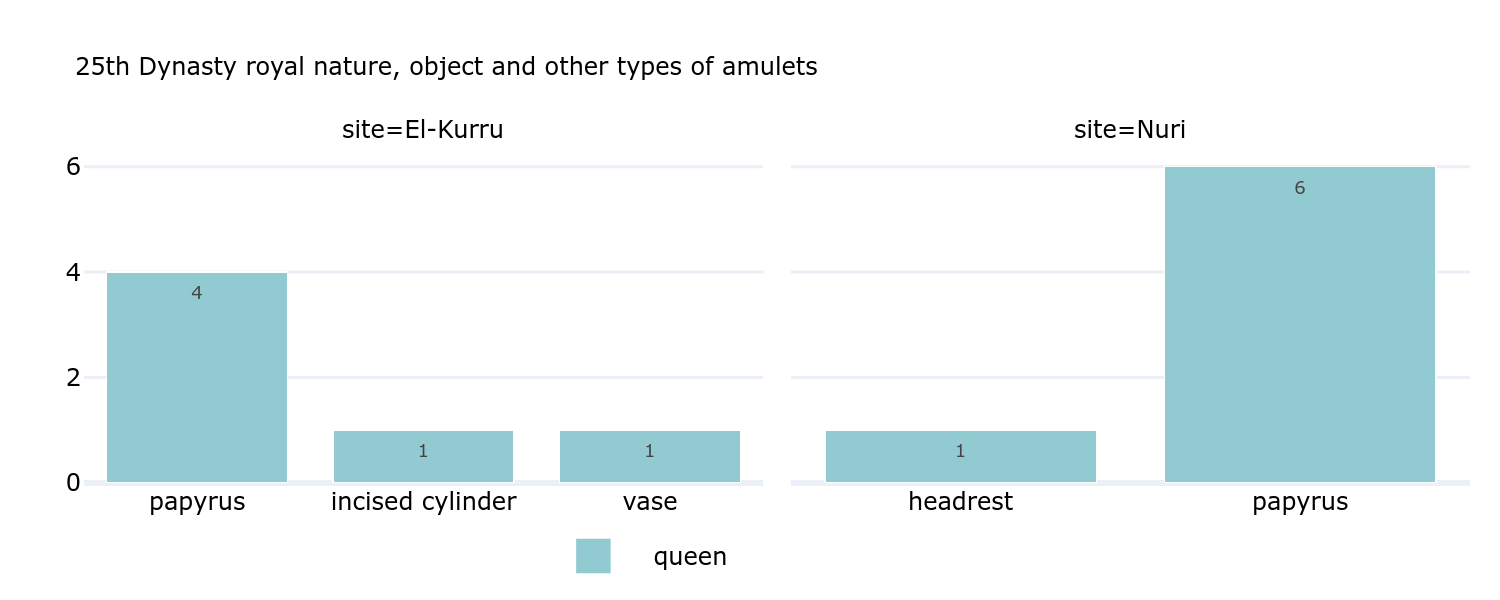
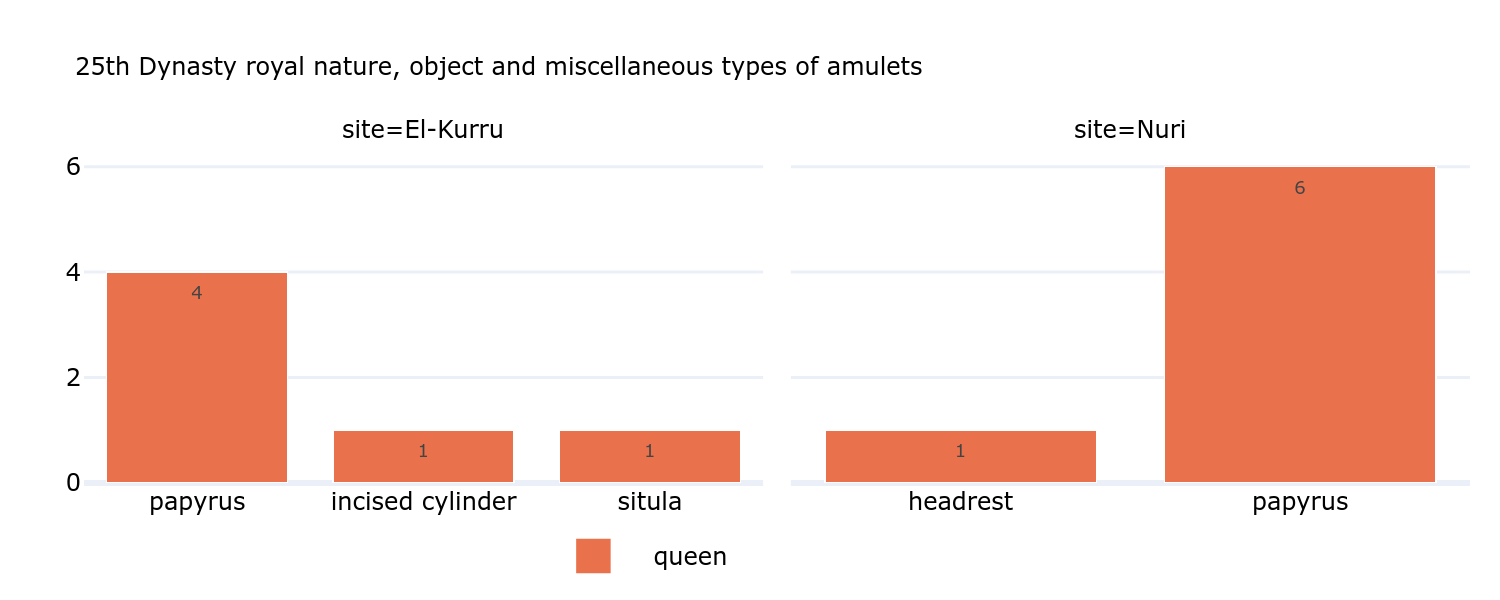
chapter 3, 4, 5 revisions

diff --git a/chapters/5-chapter5.tex b/chapters/5-chapter5.tex
@@ -62,7 +62,7 @@ Architectural features reveal further similarities between elite and royal buria
 	\label{fig:elite-objs}
 \end{figure}
 
-Overall, object types at elite tombs are rather similar to royal assemblages, with beads, vessels and adornments as the most common categories across all phases (Figure \ref{fig:elite-objs}). However, one difference is that shabtis were much rarer in elite contexts. Most of them were found in Mernua's tomb (Early Napatan), reinforcing her connection with the royal sphere. The others were mostly fragments coming from both Early and Middle Napatan tombs. One, from tomb S 82, included an inscription with a name similar to king's Malaqen, but with a different spelling and a female determinative. On the other hand, the fragments from tomb S 84 belonged to three different people. Other shabtis were found in different tombs, including non-elite tombs and the elite burials S 42 and S 49. For that reason, Dunham points out that the shabtis were so scattered by the looting that it was not possible to determine their tomb of origin \parencites[p.~406-409, 4015-416]{dunhamWestSouthCemeteries1963}. Consequently, it seems that Mernua's intact burial was the only one which contained a complete set of 88 shabtis. Her tomb also yielded all of the heart scarabs and canopics.
+Overall, object types at elite tombs are rather similar to royal assemblages, with beads, vessels and adornments as the most common categories across all phases (Figure \ref{fig:elite-objs}). However, one difference is that shabtis were much rarer in elite contexts. Most of them were found in Mernua's tomb (Early Napatan), reinforcing her connection with the royal sphere. The others were mostly fragments coming from both Early and Middle Napatan tombs. One, from tomb S 82, included an inscription with a name similar to king's Malaqen, but with a different spelling and a female determinative. On the other hand, the fragments from tomb S 84 belonged to three different people. Other shabtis were found in different tombs, including non-elite tombs and the elite burials S 42 and S 49. For that reason, Dunham points out that the shabtis were so scattered by the looting that it was not possible to determine their tomb of origin \parencites[p.~406-409, 4015-416]{dunhamWestSouthCemeteries1963}. Consequently, it seems that Mernua's intact burial was the only one which contained a complete set of 88 shabtis. It would seem that the presence of shabtis is a sign of connection with the royal sphere. Additionally, Mernua's tomb also yielded all of the heart scarabs and canopics.
 
 
 Games and toys are more present in elite contexts than royal ones, where they were only found in El-Kurru during the 25th Dynasty, although this could be due to preservation issues if these objects were made of perishable materials. In contrast, at Meroe South, they were found in burials from the 25th Dynasty to Middle Napatan, with the highest concentration in tomb S 86 that is dated to either the 25th Dynasty or Early Napatan phases. Similarly, staffs---previously only found in Nuri royal tombs from the 25th Dynasty to the Late Napatan period---, are only found in Late Napatan elite burials at Meroe South.
@@ -118,12 +118,14 @@ The highest percentage of tombs with amulets was from the Late Napatan phase (17
 
 \subsubsection{Amulet types}
 
+
 \begin{figure}[H]
 	\centering
 	\includegraphics[width=1\textwidth]{elite-types}
 	\caption{Distribution of amulet types in elite tombs by chronological phase.}
 	\label{fig:elite-types}
 \end{figure}
+
 
 Continuing the trend of similarities with royal contexts, amulets of symbols are the most common category in elite tombs, with the exception of the single Middle-Late Napatan tomb, which contained a single animal amulet (Figure \ref{fig:elite-types}). Deities are the second most popular amulet. however, they were entirely absent from tombs dated to the Middle-Late to Late Napatan range, which are also the phases with less amulets. Animals are the only amulet category present in all phases, being more prevalent in earlier tombs, similarly to deities and symbols. Amulets depicting humans is a type that is first attested in elite contexts, although only one example was found in a cave tomb from Sanam. Amulets depicting nature elements and objects were also rare in elite burials.
 
@@ -151,12 +153,14 @@ The \textit{udjat} is the most widespread amulet motif, especially in earlier ph
 
 Especially noteworthy are two amulets depicting winged animals (Figure \ref{fig:elite-winged}). One depicts a winged snake, the sole piece in the corpus. The other amulet is of a winged griffin, a motif also found in the tomb of the Late Napatan king Nastasen (Nu. 15). Although both amulets are not stylistically equal, both are made of sheet metal and depict a winged quadruple animal with an avian head, which could be interpreted as a griffin, as it does not resemble any other animals. The major differences between both amulets are their distant dating and location, indicating the rarity of this motif in Napatan Nubia. As mentioned in the previous chapter, in Egypt, griffins have been interpreted in different ways depending on the context. For Napatan Nubia, as there are only these two amulets in this fashion in very different contexts, it is not clear which symbolic meaning was attached to the griffin. Nevertheless, Mernua's amulets are further evidence of her link to the royal sphere, although probably in a position lesser than minor wives, as she was not interred in the royal burial sites.
 
+
 \begin{figure}
 	\centering
 	\includegraphics[width=1\textwidth, height=4cm, keepaspectratio]{elite-23.1435a-d}
 	\caption{From Mernua's tomb, amulets of a vulture, \textit{uraeus} and sun boat (MFA 23.1435a-d).}
 	\label{fig:elite-collar}
 \end{figure}
+
 
 \begin{figure}[H]
 	\centering
@@ -174,7 +178,8 @@ Especially noteworthy are two amulets depicting winged animals (Figure \ref{fig:
 \end{figure}
 
 
-A few motifs were only found in amulets from Middle Napatan burials onwards---hawk, falcon and the goddess Sekhmet. For Early to Middle Napatan tombs, exclusive motifs include flies, headrests and two unidentified deities, one with a snake head and another with a hawk head. There was a single fly amulet, as well as a headrest, both from the Early-Middle Napatan range. Moreover, amulets of Thoth were only found from the Early to Middle Napatan phases. Interestingly, amulets of this god were not found at the royal cemeteries. Along with the the snake and hawk-headed unidentified deities and Sekhmet, these were the only amulet depicting deities present in Early-Middle Napatan and later burials. Egyptian-style amulets continue to be popular among elite burials, specially in Mernua's tomb. However, some amulets appear to be exclusive to royal contexts, such as the \textit{menat}, the Four Sons of Horus and hieroglyphic signs---motifs only present with Mernua.
+A few motifs were only found in amulets from Middle Napatan burials onwards---hawk, falcon and the goddess Sekhmet. For Early to Middle Napatan tombs, exclusive motifs include flies, headrests and two unidentified deities, one with a snake head and another with a hawk head. There was a single fly amulet, as well as a headrest, both from the Early-Middle Napatan range. Moreover, amulets of Thoth were only found from the Early to Middle Napatan phases. Interestingly, amulets of this god with a ibis head and human body were not found at the royal cemeteries. Along with the the snake and hawk-headed unidentified deities and Sekhmet, these were the only amulet depicting deities present in Early-Middle Napatan and later burials. Egyptian-style amulets continue to be popular among elite burials, specially in Mernua's tomb. However, some amulets appear to be exclusive to royal contexts, such as the \textit{menat}, the Four Sons of Horus and hieroglyphic signs---motifs only present with Mernua.
+
 
 \begin{figure}[H]
 	\centering
@@ -213,7 +218,9 @@ A few motifs were only found in amulets from Middle Napatan burials onwards---ha
 	\label{fig:elite-mernua-pics}
 \end{figure}
 
+
 \subsubsection{Amulet materials}
+
 
 \begin{figure}[H]
 	\centering
@@ -222,7 +229,9 @@ A few motifs were only found in amulets from Middle Napatan burials onwards---ha
 	\label{fig:elite-materials}
 \end{figure}
 
+
 The material composition of elite amulets differ from royal ones in a particular way: faience was the most common material only during the 25th Dynasty-Early Napatan phase (Figure \ref{fig:elite-materials}). Although appearing in burials spanning from the Early to Middle Napatan phases, they were absent in later burials and from the only Early Napatan tomb with amulets (Mernua's). This tomb included amulets made from a variety of materials, mostly electrum, but not a single one from faience, which makes it exceptional, as even the royal burials contained many faience amulets. 
+
 
 Amulets made of gold were also rare, as only five were found, which could be a result of robbery. Materials sourced from the Egyptian Eastern Desert---such as jasper, serpentinite, travertine, carnelian and chalcedony---, were used throughout all phases, albeit in small numbers. Locally sourced materials, namely haematite and agate, were rarer. Not surprising, Mernua's amulets were the ones composed of the most foreign materials, which can be due to her social status.
 
@@ -394,7 +403,7 @@ As for burial containers, two tombs from Meroe West and South contained eye inla
 \paragraph{Amulet distribution}
 
 
-A total of 1577 amulets were distributed across 62 tombs (Table \ref{tab:25-distro}). At Meroe West, which contained 94\% of the amulets, over half of the tombs (54\%) contained at least one amulet. In contrast, at Meroe South, 27\% of tombs included amulets, while Mirgissas's percentage was even lower at 22\%.
+A total of 1577 amulets were distributed across 62 tombs (Table \ref{tab:25-distro}). This number is unusually high compared to previous contexts. This disparity is most likely explained by less looting. According to the reports, 21 undisturbed tombs, accounted for 1179 amulets, while the other 398 amulets were distributed across 133 looted tombs. For instance, one tomb from Meroe West (W 609) contained 707 amulets---a figure that suggests the tombs originally held more amulets than what excavators recovered. At Meroe West, which contained 94\% of the amulets, over half of the tombs (54\%) contained at least one amulet. In contrast, at Meroe South, 27\% of tombs included amulets, while Mirgissas's percentage was even lower at 22\%.
 
 
 {\small
@@ -454,10 +463,13 @@ Amulets of deities depict 18 different ones, with the most variety from Meroe We
 \end{figure}
 
 
-One amulet depicting a group of three deities from Meroe South, unfortunately, did not include their identification and the reliefs are unclear (Figure \ref{fig:25-three-deities}). However, the deity on the left is possibly Isis or Hathor due to the crown featuring cow horns and full moon. An amulet depicting a lion-headed goddess suckling a child is possibly of Bastet and Horus, as the goddess was represented as nursing a king in the enthronement ceremony in Harsyotef and Nastasen stelae (Figure \ref{fig:25-lion-nursing}) \parencites[p.~182]{kormyshevaGodsDivineSymbols2006}. If this interpretation is correct, this would mean the presence of royal iconography in a non-elite context. An amulet from S 125 also features a seated lion-headed goddess with hieroglyphic signs on the back (Figure \ref{fig:25-openwork}). The design is particular interesting as all sides, except for the back, are openwork, possibly serving as the suspension method.
+One amulet depicting a group of three deities from Meroe South, unfortunately, did not include their identification (Figure \ref{fig:25-three-deities}). All three figures appear to be female. The leftmost, identifiable by her sun disc and cow horns, likely represents Hathor. The central figure is probably Anuket, goddess of the Nile cataracts. The rightmost figure may be either Sekhmet ot Tefnut, suggested by the sun disc on its head, though it is unclear if the figure contains the goddesses' lioness's head. Unfortunately, I was unable to find an iconographic depiction of these three goddesses together.
 
 
- \begin{figure}[H]
+However, the deity on the left is possibly Isis or Hathor due to the crown featuring cow horns and full moon. An amulet depicting a lion-headed goddess suckling a child is possibly of Bastet and Horus, as the goddess was represented as nursing a king in the enthronement ceremony in Harsyotef and Nastasen stelae (Figure \ref{fig:25-lion-nursing}) \parencites[p.~182]{kormyshevaGodsDivineSymbols2006}. If this interpretation is correct, this would mean the presence of royal iconography in a non-elite context. An amulet from S 125 also features a seated lion-headed goddess with hieroglyphic signs on the back (Figure \ref{fig:25-openwork}). The design is particular interesting as all sides, except for the back, are openwork, possibly serving as the suspension method.
+
+
+\begin{figure}[H]
 	\centering
 	\begin{minipage}{0.30\textwidth}
 		\centering
@@ -667,7 +679,7 @@ In total, twelve amulets from 25th Dynasty non-elite assemblages feature a combi
 \end{figure}
 
 
-\begin{wrapfigure}{l}{0.4\textwidth}
+\begin{wrapfigure}{l}{0.35\textwidth}
 	\centering
 	\includegraphics[width=1\linewidth, height=5cm, keepaspectratio, clip, trim={2cm 2.5cm 2cm 3cm}]{25-23.857}
 	\caption{Plaque amulet of Bes and a winged goddess with the double crown (MFA 23.857).}
@@ -797,13 +809,13 @@ Faience was, by far, the most common material, with 90\% of the total (Figure \r
 Gold, although the second most common material and sourced in Nubia, accounts for less than 2.6\% of the total amulets. They were found in the Meroe region, 36 in the West cemetery and three in the South. Ivory, also sourced from the Nubian territory, comprises only one amulet from Meroe West. Combined with the single ivory amulet form royal contexts, it seems this material was not preferred for the manufacture of amulets. Lapis lazuli, sourced from Afghanistan, was the material with the furthest source. The 36 lapis amulets were only found in Meroe West, but in different tombs, indicating a wider access to this material for this particular population.
 
 
-Materials sourced from the Egyptian Eastern Desert---namely carnelian, jasper, serpentinite, steatite, porphyry, amethyst and, probably, silver---accounted for less then 3\% of the total amulets. Conversely, some stones could be obtained in quarries at the Lower Nubia region, such as rock crystal, amethyst and amazonite. The latter, as we have seen, could also be acquired from Ethiopia. However, there were only eight amulets made from these materials, less than 1\%. Bronze, although found in quarries in Northern Sudan as well as the Eastern Desert and Sinai \parencites[p.~935-938]{harrellArchaeologyGeologyAncient2024}, accounted for only three amulets---an ibis, a hawk and a boy. The ten amulets made of sandstone were all \textit{udjat} and came from the same tomb. In the report, the material is referred as quartzite, which is better applied to other types of sandstone. It is likely that this stone is the same used for two elite amulets from the Early-Middle Napatan phase.
+Materials sourced from the Egyptian Eastern Desert---namely carnelian, jasper, serpentinite, steatite, porphyry, amethyst and, probably, silver---accounted for less then 3\% of the total amulets. Conversely, some stones could be obtained in quarries at the Lower Nubia region, such as rock crystal, amethyst and amazonite. The latter, as we have seen, could also be acquired from Ethiopia. However, there were only eight amulets made from these materials, less than 1\%. Bronze is an alloy consisting of primarily copper. Although copper was found in quarries in Northern Sudan as well as the Eastern Desert and Sinai \parencites[p.~935-938]{harrellArchaeologyGeologyAncient2024}, bronze accounted for only three amulets---an ibis, a hawk and a boy. The ten amulets made of sandstone were all \textit{udjat} and came from the same tomb. In the report, the material is referred as quartzite, which is better applied to other types of sandstone. It is likely that this stone is the same used for two elite amulets from the Early-Middle Napatan phase.
 
 
 New materials, previously not found in royal and elite tombs, include bone, amethyst, limestone, porphyry, glass and mother-of-pearl. Limestone likely came from the Nile Valley near the Egyptian city of Akhmin \parencites[p.~506]{harrellArchaeologyGeologyAncient2024} and it was the composition of only one amulet, the double Pataikos and hawk-headed deity from W 609. Mother-of-pearl, found in the Red Sea, and porphyry were used to produce two \textit{udjat} amulets. In fact, these three amulets are the only ones in the whole corpus to be made of these materials.
 
 
-Conversely, the three amethyst amulets were found in different tombs and represented different motifs: an \textit{udjat}, a frog and a libation bucket. Amulets made of bone were present only at tomb S 177 and were all \textit{udjat}. A sole glass amulet of a lion was found in Meroe West. While glass production was technically related to the glazing of faience and steatite, it was a more complex and costly process. Thus, glass was mostly inaccessible to non-elite groups \parencites[p.~385]{harrellArchaeologyGeologyAncient2024}. Two hypothesis can be put forth regarding this amulet: the first is that it represents an exception for a non-elite context and the other is that the material was mislabeled. Nevertheless, the range of materials demonstrate the heterogeneity of access to objects and materials by non-elite groups, with some coming from further away, while others were readily available, like bone.
+Conversely, the three amethyst amulets were found in different tombs and represented different motifs: an \textit{udjat}, a frog and a situla. Amulets made of bone were present only at tomb S 177 and were all \textit{udjat}. A sole glass amulet of a lion was found in Meroe West. While glass production was technically related to the glazing of faience and steatite, it was a more complex and costly process. Thus, glass was mostly inaccessible to non-elite groups \parencites[p.~385]{harrellArchaeologyGeologyAncient2024}. Two hypothesis can be put forth regarding this amulet: the first is that it represents an exception for a non-elite context and the other is that the material was mislabeled. Nevertheless, the range of materials demonstrate the heterogeneity of access to objects and materials by non-elite groups, with some coming from further away, while others were readily available, like bone.
 
 
 \begin{figure}[H]
@@ -871,7 +883,7 @@ The variety and types of grave goods is comparable with 25th Dynasty royal tombs
 \paragraph{Amulet distribution}
 
 
-This phase boasted the highest number of amulets, a total of 2682 distributed across 379 tombs (Table \ref{tab:25-EN-distro}). The Meroe cemeteries had the highest prevalence, with amulets found in over 30\% of tombs in each site. This is contrasted by Sanam, where, despite the large number of graves, only 23\% contained at least one amulet. The distribution was even lower at Qustul (17\%) and Missiminia (13\%). Despite the low prevalence of amulets in Sanam, the site contained the largest individual assemblages. For instance, tombs 1516 and 927 held over 200 amulets each.
+This phase boasted the highest number of amulets, a total of 2682 distributed across 379 tombs, which may be attributed to the larger number of graves (Table \ref{tab:25-EN-distro}). The Meroe cemeteries had the highest prevalence, with amulets found in over 30\% of tombs in each site. This is contrasted by Sanam, where, despite the large number of graves, only 23\% contained at least one amulet. The distribution was even lower at Qustul (17\%) and Missiminia (13\%). Despite the low prevalence of amulets in Sanam, the site contained the largest individual assemblages. For instance, tombs 1516 and 927 held over 200 amulets each.
 
 
 {\small
@@ -950,7 +962,7 @@ Regarding specific motifs, there are eight plaque amulets from Sanam of Hapi, th
 	\label{fig:25-EN-winged-lioness}
 \end{wrapfigure}
 
-One particular motif is puzzling as it depicts a winged goddess with a child, which could potentially represent the standard Isis and Horus motif. The first picture in Figure \ref{fig:25-EN-isis-horus} show the classic design of a seated Isis, crowned with a sun disc and \textit{uraeus}, holding Horus on her lap. The second image, from Missiminia, displays the intriguing amulet of a winged goddess wearing the Hathor crown with a child either seated by her feet or on her lap. Vila raises the possibility that it represents Hathor presenting a child Khonsu \parencites[p. 53]{vilaNécropoleMissiminiaSépultures1980}. The last amulet from \ref{fig:25-EN-isis-horus} is also intriguing. It depicts two figures side-by-side, the one on the left also sporting the Hathor/Isis crown. They appear to be staring and embracing each other. This motif is particularly intriguing as nothing like it was found. Additionally, Griffith describes it as “Isis nursing Horus, barbaric” \parencites[p.~135]{griffithOxfordExcavationsNubia1923}. Unfortunately, I was not able to find the current location of this amulet in order to analyze a better picture. This amulet is also similar to some erotic amulets, where two human figures are next to each other and one seems to be kissing the other. It is possible that it may represent an intimate scene between Isis and Osiris. Additionally, the incisions on their bodies could be an indication of mummification, reinforcing the Osiris interpretation. In any case, both amulets are very unique and their design look very Nubian in style.
+One particular motif is puzzling as it depicts a winged goddess with a child, which could potentially represent the standard Isis and Horus motif. The first picture in Figure \ref{fig:25-EN-isis-horus} show the classic design of a seated Isis, crowned with a sun disc and \textit{uraeus}, holding Horus on her lap. The second image, from Missiminia, displays the intriguing amulet of a winged goddess wearing the Hathor crown with a child either seated by her feet or on her lap. Vila raises the possibility that it represents Hathor presenting a child Khonsu \parencites[p. 53]{vilaNécropoleMissiminiaSépultures1980}. The last amulet from \ref{fig:25-EN-isis-horus} is also intriguing. It depicts two figures side-by-side, the one on the left also sporting the Hathor/Isis crown. They appear to be staring and embracing each other. This motif is particularly intriguing as nothing like it was found. Additionally, Griffith describes it as "Isis nursing Horus, barbaric", making a judgment, likely stemming from the preconceptions of this time \parencites[p.~135]{griffithOxfordExcavationsNubia1923}. Unfortunately, I was not able to find the current location of this amulet in order to analyze a better picture. This amulet is also similar to some erotic amulets, where two human figures are next to each other and one seems to be kissing the other. It is possible that it may represent an intimate scene between Isis and Osiris. Additionally, the incisions on their bodies could be an indication of mummification, reinforcing the Osiris interpretation. In any case, both amulets are very unique and their design look very Nubian in style.
 
 
 \begin{figure}[H]
@@ -1230,7 +1242,7 @@ Amulets featuring three motifs were exclusive to Sanam and Meroe West, totaling 
 }
 
 
-The \textit{uraeus} was the most frequently combined motif, often paired with animals and nature symbols such as monkeys, fishes and crocodiles. This thematic connection is also seen in a plaque featuring only animals: a hippopotamus, jackal and crocodile. A particular plaque shows a ram-headed sphinx on the front and a hieroglyphic inscription on the back (\ref{fig:25-3motifs-pics}, a, b). Deities were also represented, including a plaque of Horus standing on a crocodile with two scorpions on the reverse (\ref{fig:25-3motifs-pics}, c, d), and another depicting Hathor with an \textit{uraeus} and a winged scarab. Finally, one unique amulet was described as a pillar crowned with a disc and feathers.
+The \textit{uraeus} was the most frequently combined motif, often paired with animals and nature symbols such as monkeys, fishes and crocodiles. This thematic connection is also seen in a plaque featuring only animals: a hippopotamus, jackal and crocodile. A particular plaque shows a ram-headed sphinx on the front and a hieroglyphic inscription on the back (\ref{fig:25-3motifs-pics}, a, b). Deities were also represented, including a plaque of Horus spearing a crocodile on its back with two scorpions on the reverse (\ref{fig:25-3motifs-pics}, c, d), and another depicting Hathor with an \textit{uraeus} and a winged scarab. Finally, one unique amulet was described as a pillar crowned with a disc and feathers.
 
 
 \begin{figure}[H]
@@ -1304,7 +1316,7 @@ Faience was, once again, the most widespread material for amulets, comprising ov
 The variety of materials showcases extensive trade networks. Of the 29 materials, 13 were imported from beyond the Nubian territory. These could come from relatively nearby sources like the Egyptian Eastern Desert, Fayum or Sinai (e.g., amazonite, rock crystal, steatite, malachite, quartz, basalt, amethyst, chalcedony, haematite, jasper, travertine) \parencites[p.~505-507, 758-760]{harrellArchaeologyGeologyAncient2024}. However, they made up less than 7\% of the assemblage.
 
 
-On the other hand, lapis lazuli and obsidian, coming from much further lands, accounted for 2.4\% of amulets \parencites[p.~759]{harrellArchaeologyGeologyAncient2024}. Obsidian was unique to this non-elite context and was found only at Sanam. Eight materials, such as silver, bronze, agate, carnelian, zeolite, granite and onyx, are more ambiguous,as they could be sourced from either Nubia or Egypt \parencites{andrewNoteZeoliteArtefacts1951}[p.~505, 759, 875-876, 929]{harrellArchaeologyGeologyAncient2024}. This phase is also the third to include ivory amulets, four in total, one from Meroe South and three from Meroe West. Gold amulets were not very popular, making up only 0.7\% of the total. Notably, glass---a more costly material than faience---was not only more common in this phase, with 32 instances versus one in the previous phase.
+On the other hand, lapis lazuli and obsidian, coming from much further lands, accounted for 2.4\% of amulets \parencites[p.~759]{harrellArchaeologyGeologyAncient2024}. Obsidian was unique to this non-elite context and was found only at Sanam. Eight materials, such as silver, bronze, agate, carnelian, zeolite, granite and onyx, are more ambiguous, as they could be sourced from either Nubia or Egypt \parencites{andrewNoteZeoliteArtefacts1951}[p.~505, 759, 875-876, 929]{harrellArchaeologyGeologyAncient2024}. This phase is also the third to include ivory amulets, four in total, one from Meroe South and three from Meroe West. Gold amulets were not very popular, making up only 0.7\% of the total. Notably, glass---a more costly material than faience---was not only more common in this phase, with 32 instances versus one in the previous phase.
 
 
 Despite the abundance of imported and local materials, Sanam also yielded five amulets made of readily available resources such as shell, pottery and bone. Additionally, Sanam's remarkable diversity of materials for amulets could be explained by the sizable assemblage, as well as its key position as a trading post, facilitating access to both local and long-distance exchange networks.
@@ -1650,13 +1662,13 @@ While locally sourced materials were predominant everywhere, variations exist. T
 \section{Conclusion}
 
 
-This chapter had presented and analyzed data from elite and non-elite cemeteries of the Napatan period across temporal and regional dimensions. The grave good assemblages largely conform to the established Napatan patterns, although the 25th Dynasty to Early Napatan phases introduced new, albeit rare, object types. Additionally, objects manufactured specifically for the burial were less common on non-elite contexts than in royal or elite tombs. Shabtis, typically considered a royal-exclusive object during the Napatan period, were found in tombs of the 25th Dynasty and Early Napatan phases, maybe indicating a level of access to the royal sphere.
+This chapter had presented and analyzed data from elite and non-elite cemeteries of the Napatan period across temporal and regional dimensions. The grave good assemblages largely conform to the established Napatan patterns, although the 25th Dynasty to Early Napatan phases introduced new, albeit rare, object types. Additionally, objects manufactured specifically for the burial were less common on non-elite contexts than in royal or elite tombs. Shabtis, typically considered a royal-exclusive object during the Napatan period, were found in elite tombs of the 25th Dynasty and Early Napatan phases. Their presence suggests that certain non-royal individuals gained access to the royal sphere, likely through marital alliances, and thus became integrated into the court.
 
 
-The amulet analysis revealed parallel trends	between both social groups. There was a peak in quantity and diversity during the 25th Dynasty to Early Napatan period, succeeding the low number at pre-25th Dynasty and followed by a decline in later phases. However, the non-elite sphere displays distinct characteristics, including a greater variety of animal motifs and unique adaptations of Egyptian-style designs. Plaques and amulets combining multiple motifs were also more prevalent in non-elite contexts. While symbol amulets dominated non-elite graves in the 25th Dynasty to Early Napatan phases, deities, animals and humans were more popular in the preceding and subsequent phases. Material use also shifted temporarily, with an increase in imported materials during the 25th Dynasty to Early Napatan period. However, local materials remained dominant, driven mostly by faience, the most popular material overall. 
+The amulet analysis revealed parallel trends	between both social groups. There was a peak in quantity and diversity during the 25th Dynasty to Early Napatan period, succeeding the low number at pre-25th Dynasty and followed by a decline in later phases. This peak is likely due to closer connections with Egypt, when Egyptian artisans and priests could be employed by the Napatans. However, the non-elite sphere displays distinct characteristics, including a greater variety of animal motifs and unique adaptations of Egyptian-style designs. Plaques and amulets combining multiple motifs were also more prevalent in non-elite contexts. While symbol amulets dominated non-elite graves in the 25th Dynasty to Early Napatan phases, deities, animals and humans were more popular in the preceding and subsequent phases. Material use also shifted temporarily, with an increase in imported materials during the 25th Dynasty to Early Napatan period. However, local materials remained dominant, driven mostly by faience, the most popular material overall. 
 
 
-Regionally, the Fourth Cataract contained the highest total number of amulets and graves, and yielded the most unique designs, particularly of deities and symbols. In contrast, the Meroe region had largest concentration of symbol and human motifs, especially the \textit{udjat} and amulets of boys. The use of imported materials was more pronounced in the northern regions, consistent with their primary sources located in the Egyptian Eastern Desert.
+Regionally, the Fourth Cataract contained the highest total number of amulets and graves, and yielded the most unique designs, particularly of deities and symbols. In contrast, the Meroe region included the largest concentration of symbol and human motifs, especially the \textit{udjat} and boy amulets. Notably, the latter motif, along with depictions of twin boys, were found exclusively in the Meroe cemeteries, suggesting a local significance. The use of imported materials was more pronounced in the northern regions, consistent with their primary sources located in the Egyptian Eastern Desert.
 
 
 In the next chapter, this temporal and spatial analysis will be integrated with the distinct social contexts in order to build a multifaceted interpretation of Napatan amulets.

diff --git a/chapters/4-chapter4.tex b/chapters/4-chapter4.tex
@@ -751,13 +751,7 @@ Overall, the animal amulets contained both animals associated with certain Egypt
 \end{figure}
 
 
-Since amulets depicting nature elements, objects and miscellaneous motifs are very rare, they were all included in the same graph (Figure \ref{fig:25-royal-nature-objs-misc}). All were found in the tombs of queens. The most common motif in these categories is the papyrus column, the only amulet to occur both in El-Kurru and Nuri (four and six examples, respectively). Amulets depicting objects include a headrest from Nuri, and a vase from El-Kurru (Figure \ref{fig:25-objs-pics}, top row).
-
-The miscellaneous/other category include only two amulets. One is an incised cylinder depicting a vulture wearing the sun disk and featuring some hieroglyphic signs (Figure \ref{fig:25-objs-pics}, third). This particular amulet is more similar to a bead, however it was included in the database due to the decoration and inscriptions. Also, it was not considered an amulet of a vulture due to the shape not being that of the animal. The second amulet represents an unknown motif. In Dunham's report, there is no indication of the motif and, unfortunately, the quality of the photograph did not allow me to make a positive identification \parencites[p.~101, pl.~XX.A, g, 3]{dunhamElKurru1950}. Additionally, the location of this amulet is unknown, complicating its identification \parencites{hinkelCatalogueObjectsSudan2002, kormyshevaGodsDivineSymbols2006}.
-
-
-
- \begin{figure}[H]
+\begin{figure}[H]
 	\centering
 	\begin{minipage}{0.25\textwidth}
 		\includegraphics[width=\textwidth, height=4cm, keepaspectratio]{25-24.651}
@@ -774,12 +768,20 @@ The miscellaneous/other category include only two amulets. One is an incised cyl
 	\begin{minipage}{0.35\textwidth}
 		\includegraphics[width=\textwidth, height=4cm, keepaspectratio]{25-20.650}
 	\end{minipage}%
-	\caption{Amulets of a vase, headrest, papyrus column and incised cylinder (MFA 24.651, 20.650, 20.649, 24.617).}
+	\caption{Amulets of a situla, headrest, papyrus column and incised cylinder (MFA 24.651, 20.650, 20.649, 24.617).}
 	\label{fig:25-objs-pics}
 \end{figure}
+
+
+Since amulets depicting nature elements, objects and miscellaneous motifs are very rare, they were all included in the same graph (Figure \ref{fig:25-royal-nature-objs-misc}). All were found in the tombs of queens. The most common motif in these categories is the papyrus column, the only amulet to occur both in El-Kurru and Nuri (four and six examples, respectively). Amulets depicting objects include a headrest from Nuri, and a vase from El-Kurru (Figure \ref{fig:25-objs-pics}).
+
+The miscellaneous/other category include only two amulets. One is an incised cylinder depicting a vulture wearing the sun disk and featuring some hieroglyphic signs (Figure \ref{fig:25-objs-pics}, third). This particular amulet is more similar to a bead, however it was included in the database due to the decoration and inscriptions. Also, it was not considered an amulet of a vulture due to the shape not being that of the animal. The second amulet represents an unknown motif. In Dunham's report, there is no indication of the motif and, unfortunately, the quality of the photograph did not allow me to make a positive identification \parencites[p.~101, pl.~XX.A, g, 3]{dunhamElKurru1950}. Additionally, the location of this amulet is unknown, complicating its identification \parencites{hinkelCatalogueObjectsSudan2002, kormyshevaGodsDivineSymbols2006}.
  
  
 \subsubsection{Amulet materials}
+
+
+There are differences in materials between El-Kurru and Nuri---although faience is the most common material in both sites (Figure \ref{fig:25-royal-materials}). At El-Kurru, the majority of faience amulets come from queens, while at Nuri, they come predominantly from kings' tombs. It is not surprising that faience was such a popular material for amulets---excavations at the Amun Temple in nearby Sanam have uncovered evidence of faience production, indicating that objects made from this material were likely manufactured locally for the royal burials \parencites{reisnerNoteHarvardBostonExcavations1920, howleyNewDiscoveriesSanam2020}. At both sites, amulets of queens were made from the most varied materials, followed by kings. Amulets of minor wives at El-Kurru were only made of faience, and, at Nuri, they were composed of gold, beryl and serpentinite.
 
 
 \begin{figure}[H]
@@ -795,9 +797,6 @@ The miscellaneous/other category include only two amulets. One is an incised cyl
 	\caption{Distribution of amulet materials in 25th Dynasty royal tombs by occupant's title.}
 	\label{fig:25-royal-materials}
 \end{figure}
-
-
-There are differences in materials between El-Kurru and Nuri---although faience is the most common material in both sites (Figure \ref{fig:25-royal-materials}). At El-Kurru, the majority of faience amulets come from queens, while at Nuri, they come predominantly from kings' tombs. It is not surprising that faience was such a popular material for amulets---excavations at the Amun Temple in nearby Sanam have uncovered evidence of faience production, indicating that objects made from this material were likely manufactured locally for the royal burials \parencites{reisnerNoteHarvardBostonExcavations1920, howleyNewDiscoveriesSanam2020}. At both sites, amulets of queens were made from the most varied materials, followed by kings. Amulets of minor wives at El-Kurru were only made of faience, and, at Nuri, they were composed of gold, beryl and serpentinite.
 
 
 Amulets at El-Kurru have more materials made from foreign materials, mostly sourced at the central part of the Eastern Desert. Among them, jasper, serpentinite and travertine \parencites[p.~30, 503-506, 790]{harrellArchaeologyGeologyAncient2024}. As during the 25th Dynasty, the kings of Kush controlled part of the Egyptian territory, access to these materials would be facilitate. Regarding jasper, present in both sites, depending on the coloring, the stone could have come from different places. In the reports, Dunham either specifies a red coloration or not at all. Analysis of the jasper amulets' registries at the MFA's online catalogue revealed that, of the three jasper amulets, one was noted as being red. Sources of red jasper are more abundant in the Egyptian Eastern Desert and there does not appear to be any in the Sudan \parencites[p.~790-791]{harrellArchaeologyGeologyAncient2024}.
